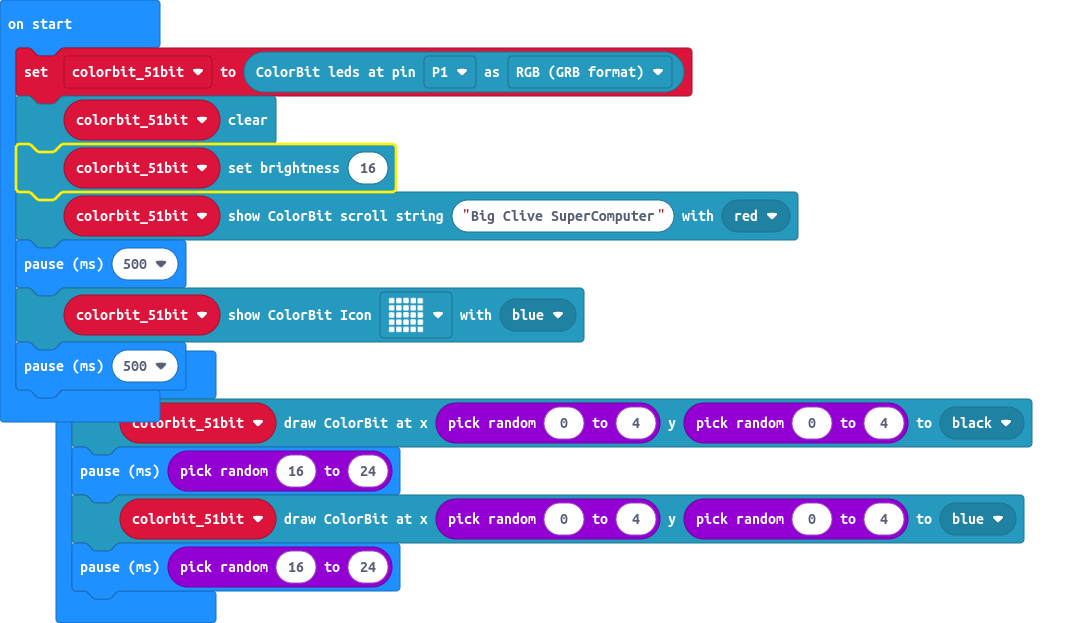
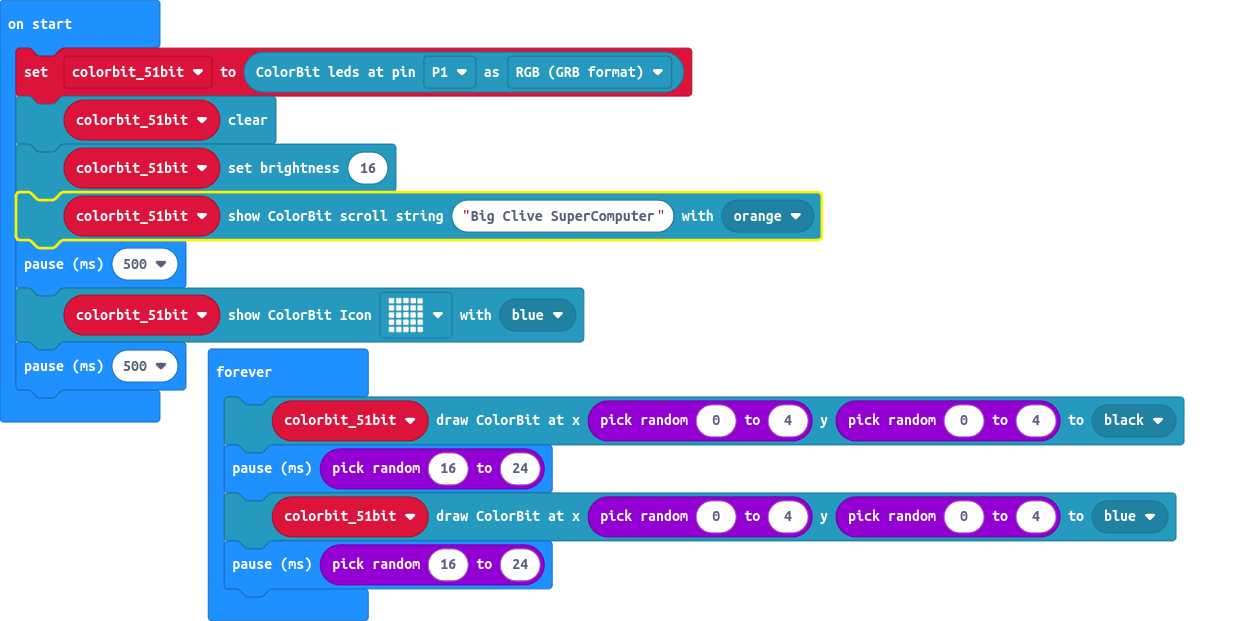
changed scroll colour to orange

Changed region(s): [[0.0, 0.0, 0.9742, 1.0]]

diff --git a/main.ts b/main.ts
@@ -1,7 +1,7 @@
 let colorbit_51bit = colorbit.initColorBit(DigitalPin.P1, BitColorMode.RGB)
 colorbit_51bit.clear()
 colorbit_51bit.setBrightness(16)
-colorbit_51bit.showScrollStringColor("Big Clive SuperComputer", colorbit.colors(BitColors.Red))
+colorbit_51bit.showScrollStringColor("Big Clive SuperComputer", colorbit.colors(BitColors.Orange))
 basic.pause(500)
 colorbit_51bit.showColorIcon(ColorIcon.FillFull, colorbit.colors(BitColors.Blue))
 basic.pause(500)
